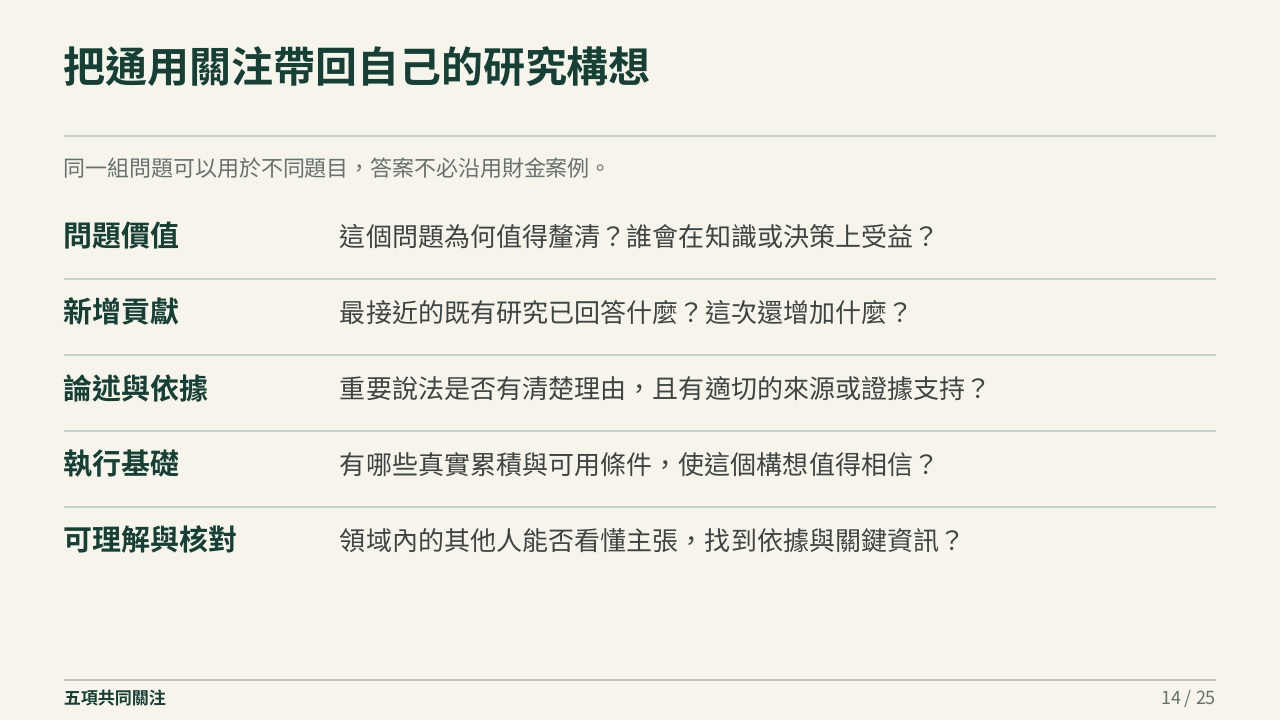
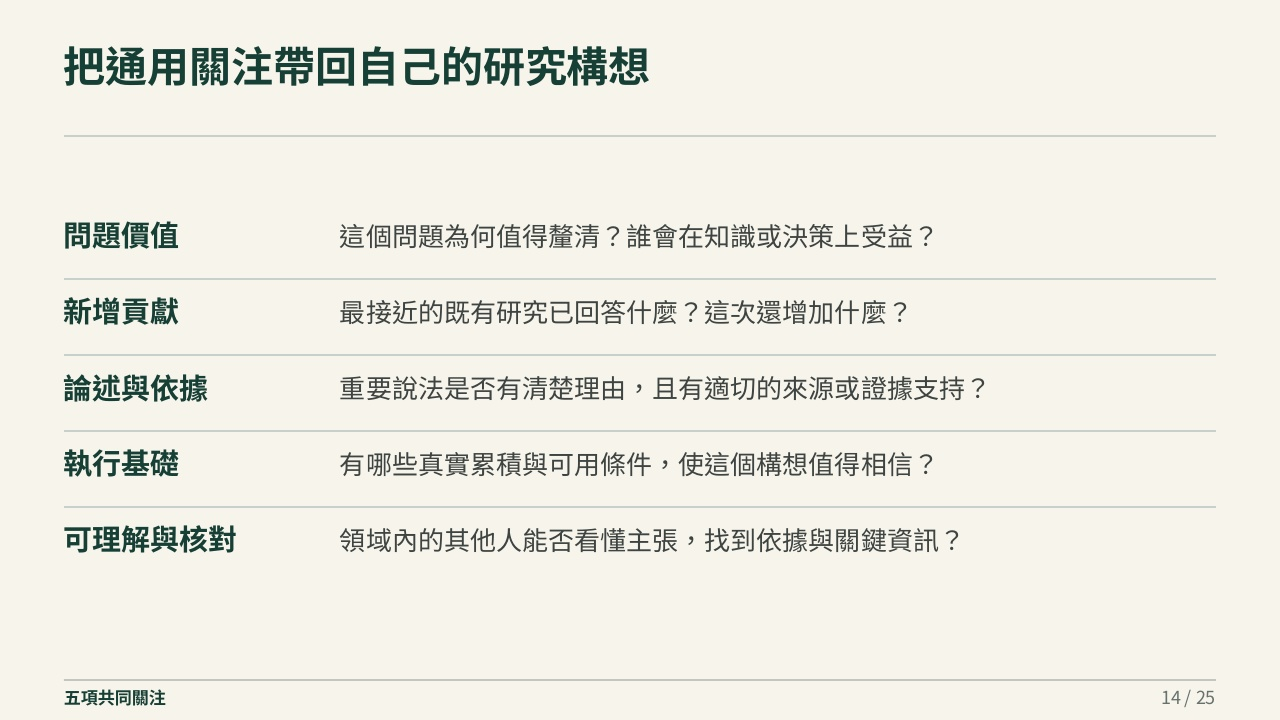
Remove confusing slide explanation

diff --git a/index.html b/index.html
@@ -1,1 +1,1 @@
-<!doctype html><html lang="zh-Hant"><head><meta charset="utf-8"><meta name="viewport" content="width=device-width,initial-scale=1"><meta name="theme-color" content="#174d3e"><title>國科會專題研究計畫｜主簡報</title><link rel="stylesheet" href="viewer.css?v=20261110-score-v4"></head><body data-mode="main" data-total="25" data-folder="slides"><header><h1>國科會專題研究計畫：從被審查經驗談申請與選題</h1><p>賴奕豪｜大葉大學財務金融學系｜2026.11.10 管院座談會</p><nav class="switch" aria-label="簡報與補充資料"><strong>主簡報</strong><a href="appendix.html" id="switch">查看補充資料 →</a></nav></header><nav class="toolbar" aria-label="投影片控制"><button id="prev">上一頁</button><label>第 <input id="page" type="number" min="1" max="25" value="1" aria-label="頁碼"> / 25 頁</label><button id="go">跳至</button><button id="next">下一頁</button><button id="out" aria-label="縮小">−</button><button id="reset">100%</button><button id="in" aria-label="放大">＋</button></nav><div class="context" id="context" aria-live="polite">主簡報｜第 1 / 25 頁</div><main id="viewport"><div class="frame" id="frame"><img id="slide" alt="主簡報第 1 頁"><section id="chapter-card" class="chapter-card" aria-label="主題分隔" hidden><p id="chapter-number"></p><h2 id="chapter-title"></h2><p id="chapter-description"></p></section><section id="history-card" class="history-card" aria-label="審查人評分表" hidden><h2>審查人評分表</h2><p class="history-year">民國 110 年</p><table><thead><tr><th>項目</th><th>審查內容</th><th>配分</th></tr></thead><tbody><tr><th scope="rowgroup" rowspan="3" class="score-group">計畫內容<br>合計 60%</th><td>主題重要、原創與價值</td><td>30%</td></tr><tr><td>文獻掌握與評述</td><td>20%</td></tr><tr><td>方法可行與創新</td><td>10%</td></tr><tr><th scope="row">代表成果</th><td></td><td>40%</td></tr></tbody></table></section></div><p class="hint">可使用左右方向鍵切換；放大後可左右捲動閱讀。</p></main><footer>主簡報 · 25 頁</footer><script src="viewer.js?v=20261110-score-v4"></script></body></html>
+<!doctype html><html lang="zh-Hant"><head><meta charset="utf-8"><meta name="viewport" content="width=device-width,initial-scale=1"><meta name="theme-color" content="#174d3e"><title>國科會專題研究計畫｜主簡報</title><link rel="stylesheet" href="viewer.css?v=20261110-case-v5"></head><body data-mode="main" data-total="25" data-folder="slides"><header><h1>國科會專題研究計畫：從被審查經驗談申請與選題</h1><p>賴奕豪｜大葉大學財務金融學系｜2026.11.10 管院座談會</p><nav class="switch" aria-label="簡報與補充資料"><strong>主簡報</strong><a href="appendix.html" id="switch">查看補充資料 →</a></nav></header><nav class="toolbar" aria-label="投影片控制"><button id="prev">上一頁</button><label>第 <input id="page" type="number" min="1" max="25" value="1" aria-label="頁碼"> / 25 頁</label><button id="go">跳至</button><button id="next">下一頁</button><button id="out" aria-label="縮小">−</button><button id="reset">100%</button><button id="in" aria-label="放大">＋</button></nav><div class="context" id="context" aria-live="polite">主簡報｜第 1 / 25 頁</div><main id="viewport"><div class="frame" id="frame"><img id="slide" alt="主簡報第 1 頁"><section id="chapter-card" class="chapter-card" aria-label="主題分隔" hidden><p id="chapter-number"></p><h2 id="chapter-title"></h2><p id="chapter-description"></p></section><section id="history-card" class="history-card" aria-label="審查人評分表" hidden><h2>審查人評分表</h2><p class="history-year">民國 110 年</p><table><thead><tr><th>項目</th><th>審查內容</th><th>配分</th></tr></thead><tbody><tr><th scope="rowgroup" rowspan="3" class="score-group">計畫內容<br>合計 60%</th><td>主題重要、原創與價值</td><td>30%</td></tr><tr><td>文獻掌握與評述</td><td>20%</td></tr><tr><td>方法可行與創新</td><td>10%</td></tr><tr><th scope="row">代表成果</th><td></td><td>40%</td></tr></tbody></table></section></div><p class="hint">可使用左右方向鍵切換；放大後可左右捲動閱讀。</p></main><footer>主簡報 · 25 頁</footer><script src="viewer.js?v=20261110-case-v5"></script></body></html>

diff --git a/appendix.html b/appendix.html
@@ -1,1 +1,1 @@
-<!doctype html><html lang="zh-Hant"><head><meta charset="utf-8"><meta name="viewport" content="width=device-width,initial-scale=1"><meta name="theme-color" content="#174d3e"><title>國科會專題研究計畫｜補充資料</title><link rel="stylesheet" href="viewer.css?v=20261110-score-v4"></head><body data-mode="appendix" data-total="21" data-folder="appendix"><header><h1>國科會專題研究計畫：補充資料</h1><p>評語分類、來源與延伸資料</p><nav class="switch" aria-label="簡報與補充資料"><a href="index.html" id="switch">← 返回主簡報</a><strong>補充資料</strong></nav></header><nav class="toolbar" aria-label="補充資料控制"><button id="prev">上一頁</button><label>第 <input id="page" type="number" min="1" max="21" value="1" aria-label="頁碼"> / 21 頁</label><button id="go">跳至</button><button id="next">下一頁</button><button id="out" aria-label="縮小">−</button><button id="reset">100%</button><button id="in" aria-label="放大">＋</button></nav><div class="context" id="context" aria-live="polite">補充資料｜第 1 / 21 頁</div><main id="viewport"><div class="frame" id="frame"><img id="slide" alt="補充資料第 1 頁"></div><p class="hint">可使用左右方向鍵切換；放大後可左右捲動閱讀。</p></main><section class="sources"><h2>資料範圍與解讀</h2><ul><li>審查重點與人文處配分表以所列年度及計畫類別為準；申請前請核對所屬學門與最新規定。</li><li>歷年結果與評語來自講者個人經驗。不同年度及委員的評語不能用來推定核定原因或其他申請者的結果。</li><li>五項關注是根據評語整理的經驗歸納，不是國科會另訂的評分表；評語摘述與完整來源見補充資料。</li><li>選題案例是教學示範，文獻與資料仍須查證；研究者負責來源查核及學術判斷。</li></ul></section><section class="sources" id="sources" hidden><h2>公開參考來源</h2><ul id="source-list"></ul></section><footer>補充資料 · 21 頁</footer><script src="viewer.js?v=20261110-score-v4"></script></body></html>
+<!doctype html><html lang="zh-Hant"><head><meta charset="utf-8"><meta name="viewport" content="width=device-width,initial-scale=1"><meta name="theme-color" content="#174d3e"><title>國科會專題研究計畫｜補充資料</title><link rel="stylesheet" href="viewer.css?v=20261110-case-v5"></head><body data-mode="appendix" data-total="21" data-folder="appendix"><header><h1>國科會專題研究計畫：補充資料</h1><p>評語分類、來源與延伸資料</p><nav class="switch" aria-label="簡報與補充資料"><a href="index.html" id="switch">← 返回主簡報</a><strong>補充資料</strong></nav></header><nav class="toolbar" aria-label="補充資料控制"><button id="prev">上一頁</button><label>第 <input id="page" type="number" min="1" max="21" value="1" aria-label="頁碼"> / 21 頁</label><button id="go">跳至</button><button id="next">下一頁</button><button id="out" aria-label="縮小">−</button><button id="reset">100%</button><button id="in" aria-label="放大">＋</button></nav><div class="context" id="context" aria-live="polite">補充資料｜第 1 / 21 頁</div><main id="viewport"><div class="frame" id="frame"><img id="slide" alt="補充資料第 1 頁"></div><p class="hint">可使用左右方向鍵切換；放大後可左右捲動閱讀。</p></main><section class="sources"><h2>資料範圍與解讀</h2><ul><li>審查重點與人文處配分表以所列年度及計畫類別為準；申請前請核對所屬學門與最新規定。</li><li>歷年結果與評語來自講者個人經驗。不同年度及委員的評語不能用來推定核定原因或其他申請者的結果。</li><li>五項關注是根據評語整理的經驗歸納，不是國科會另訂的評分表；評語摘述與完整來源見補充資料。</li><li>選題案例是教學示範，文獻與資料仍須查證；研究者負責來源查核及學術判斷。</li></ul></section><section class="sources" id="sources" hidden><h2>公開參考來源</h2><ul id="source-list"></ul></section><footer>補充資料 · 21 頁</footer><script src="viewer.js?v=20261110-case-v5"></script></body></html>

diff --git a/viewer.js b/viewer.js
@@ -11,7 +11,7 @@
   function render(n){position=Math.max(0,Math.min(sequence.length-1,n));const entry=sequence[position], isChapter=entry.kind==='chapter', isHistory=entry.kind==='history', card=$('chapter-card'), historyCard=$('history-card');
     if(card)card.hidden=!isChapter;if(historyCard)historyCard.hidden=!isHistory;img.hidden=isChapter||isHistory;
     if(isChapter){$('chapter-number').textContent=`主題 ${String(chapters.findIndex(c=>c.id===entry.id)+1).padStart(2,'0')} / 03`;$('chapter-title').textContent=entry.title;$('chapter-description').textContent=entry.description;input.value='';}
-    else if(isHistory){input.value='';}else{input.value=entry.page;img.src=`${folder}/slide-${String(entry.page).padStart(2,'0')}.jpg?v=20261110-case-v3`;}
+    else if(isHistory){input.value='';}else{input.value=entry.page;img.src=`${folder}/slide-${String(entry.page).padStart(2,'0')}.jpg?v=20261110-case-v5`;}
     updateContext();$('prev').disabled=position===0;$('next').disabled=position===sequence.length-1;saveMain(entry);history.replaceState(null,'',`#${entry.kind!=='slide'?entry.id:entry.page}`);$('viewport').scrollTo(0,0);
   }
   function go(){const n=Number(input.value);if(input.value!==''&&Number.isFinite(n))render(findLocation(String(Math.max(1,Math.min(total,Math.trunc(n))))));}
@@ -19,7 +19,7 @@
   $('prev').onclick=()=>render(position-1);$('next').onclick=()=>render(position+1);$('go').onclick=go;input.onkeydown=e=>{if(e.key==='Enter')go()};$('out').onclick=()=>scale(zoom-25);$('in').onclick=()=>scale(zoom+25);$('reset').onclick=()=>scale(100);
   document.addEventListener('keydown',e=>{if(e.target===input)return;if(e.key==='ArrowRight')render(position+1);if(e.key==='ArrowLeft')render(position-1)});
   $('switch').addEventListener('click',()=>saveMain(sequence[position]));
-  fetch('presentation-manifest.json?v=20261110-case-v3').then(r=>{if(!r.ok)throw Error('manifest');return r.json()}).then(data=>{const part=data[mode];if(part?.count===total&&Array.isArray(part.slides)){slideInfo=part.slides;updateContext()}}).catch(()=>{});
-  if(mode==='appendix')fetch('public-source-links.json?v=20261110-case-v3').then(r=>{if(!r.ok)throw Error('sources');return r.json()}).then(items=>{if(!Array.isArray(items))return;for(const item of items){try{const url=new URL(item.url);if(url.protocol!=='https:'||typeof item.label!=='string')continue;const li=document.createElement('li'),a=document.createElement('a');a.href=url.href;a.textContent=item.label;a.target='_blank';a.rel='noopener noreferrer';li.appendChild(a);$('source-list').appendChild(li)}catch{}}if($('source-list').children.length)$('sources').hidden=false}).catch(()=>{});
+  fetch('presentation-manifest.json?v=20261110-case-v5').then(r=>{if(!r.ok)throw Error('manifest');return r.json()}).then(data=>{const part=data[mode];if(part?.count===total&&Array.isArray(part.slides)){slideInfo=part.slides;updateContext()}}).catch(()=>{});
+  if(mode==='appendix')fetch('public-source-links.json?v=20261110-case-v5').then(r=>{if(!r.ok)throw Error('sources');return r.json()}).then(items=>{if(!Array.isArray(items))return;for(const item of items){try{const url=new URL(item.url);if(url.protocol!=='https:'||typeof item.label!=='string')continue;const li=document.createElement('li'),a=document.createElement('a');a.href=url.href;a.textContent=item.label;a.target='_blank';a.rel='noopener noreferrer';li.appendChild(a);$('source-list').appendChild(li)}catch{}}if($('source-list').children.length)$('sources').hidden=false}).catch(()=>{});
   let start=location.hash.slice(1);if(!start&&mode==='main'){try{start=sessionStorage.getItem('nstc-main-location')||sessionStorage.getItem('nstc-main-page')||'1'}catch{start='1'}}render(findLocation(start||'1'));
 })();
